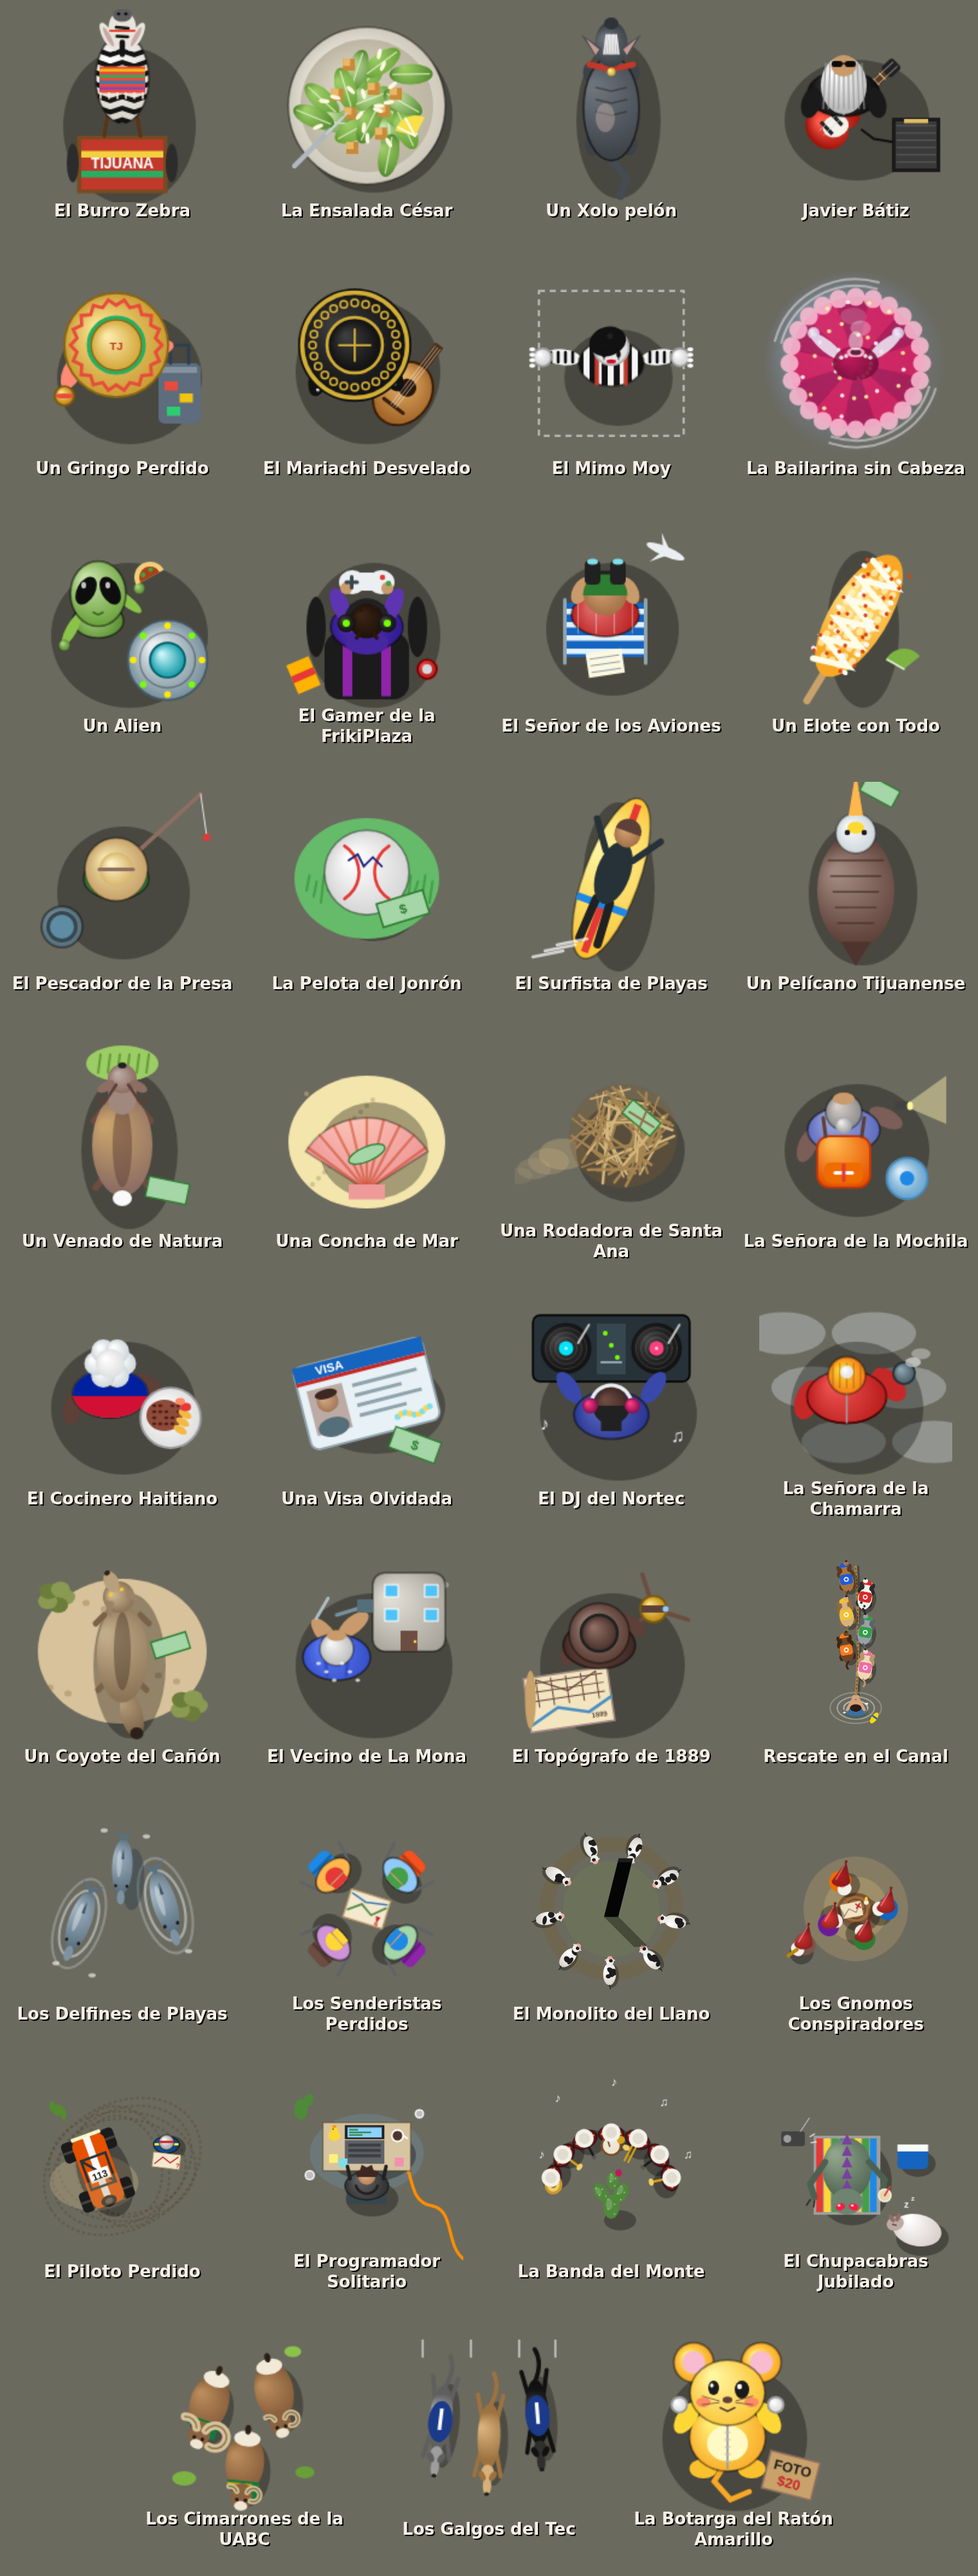
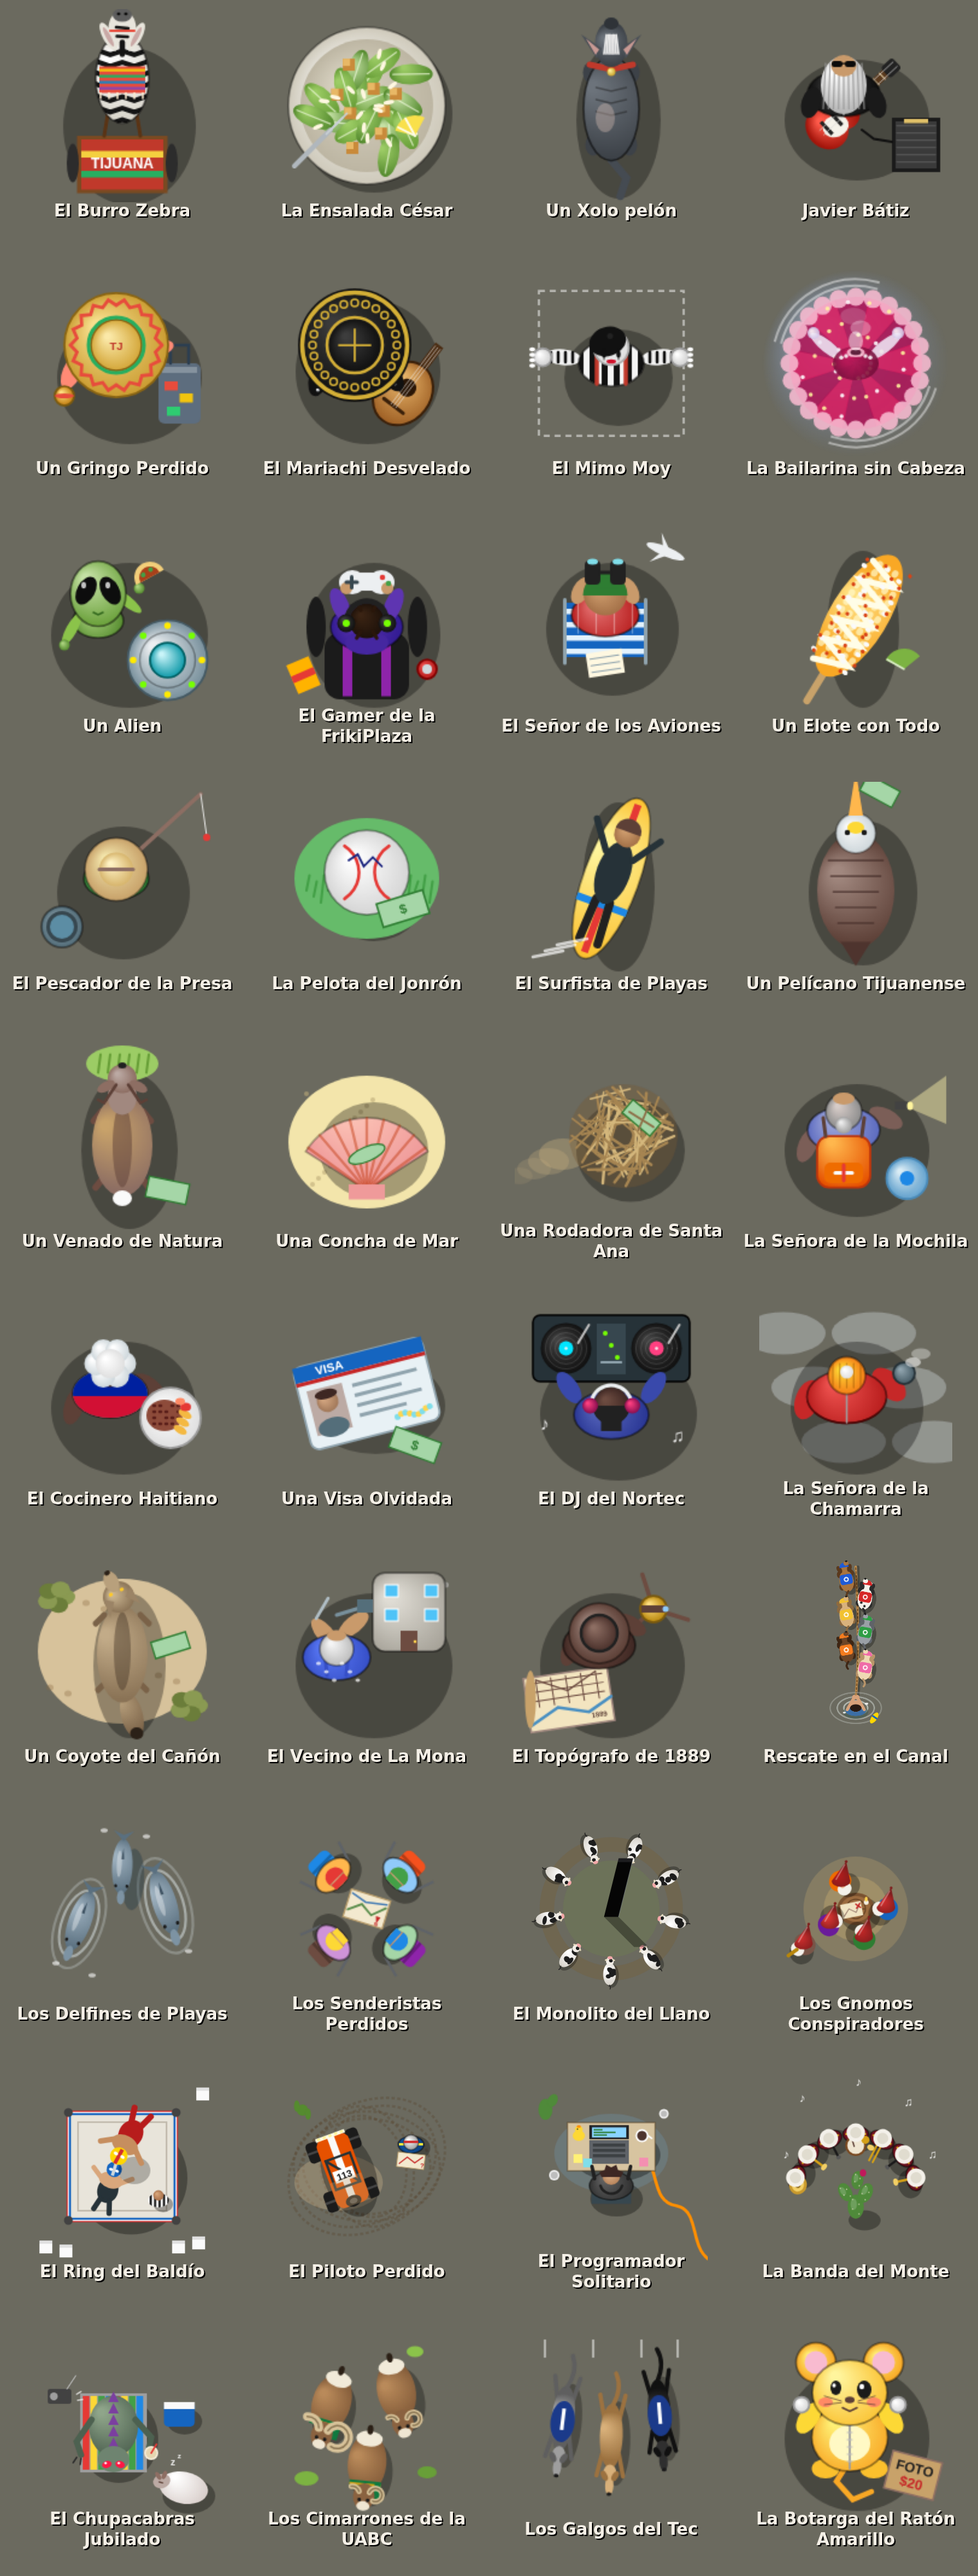
El ring del baldio: luchadores ensayando en un terreno vacio de Otay

Changed region(s): [[0.0309, 0.8125, 0.9586, 1.0]]

diff --git a/src/game.js b/src/game.js
@@ -225,6 +225,9 @@ const EGGS = [
   // en un terreno vacio de Natura (sin calles, casas ni agua cerca)
   { k: 'gnomos', name: 'Los Gnomos Conspiradores', at: [12382, 13312], pay: 300, fija: true, libre: true, rot: 0, quieto: true, r: 70,
     say: '(Cinco gnomos de jardín en bolita, alrededor de un tronquito con una vela y un plano marcado con una X, se quedan quietitos en cuanto te ven.) Uno te guiñó el ojo y te pasó un billete "para que no hayas visto nada".' },
+  // en un baldio de Otay (sin calles, casas ni agua cerca)
+  { k: 'lucha', name: 'El Ring del Baldío', at: [8982, 1752], pay: 300, fija: true, libre: true, rot: 0, quieto: true, r: 80,
+    say: '(En un baldío, dos luchadores enmascarados ensayan llaves en un ring hecho con cuerdas de tendedero, con su réferi y todo.) "¡A dos de tres caídas!" Te dieron una lana por ser el público.' },
   // en un llano del Cañón del Sainz (sin calles, casas ni agua cerca): las huellas dan vueltas en circulo
   { k: 'piloto', name: 'El Piloto Perdido', at: [8302, 11612], pay: 300, fija: true, libre: true, rot: 0, quieto: true, r: 80,
     say: '(Un piloto de la carrera de mil millas por la península, con casco y el traje lleno de polvo, ve un mapa que no le cuadra junto a su buggy.) "¿Esto es Ensenada?" Te dio una lana para que no le digas a nadie que se perdió.' },
@@ -3268,6 +3271,13 @@ const FRASES_FIJAS = {
   '¡Nomás era mi chancla, no hacía falta tanto!', '¡Gracias, perritos! ¿Aceptan croquetas o transferencia?',
   '¡Que alguien les avise que ya me puedo parar, el agua me llega a la cintura!',
   '¡Yo nomás venía a ver si estaba la marea alta!',
+  ],
+  lucha: [
+    '¡A dos de tres caídas, sin límite de tiempo!', 'Rudos contra técnicos, y el baldío de testigo.',
+    'Ensayamos para la función del sábado. Las cuerdas son del tendedero de mi mamá.', '¡Esta plancha va con dedicatoria para mi suegra!',
+    'El réferi es mi primo. Por eso siempre gano.', 'Mi máscara no se toca. Ni para lavarla.',
+    '¡Uno! ¡Dos! ...¡se levantó! ¡Qué barbaridad!', 'Si vas a grabar, de mi lado bueno. El izquierdo.',
+    'Debajo de la máscara hay otra máscara. Por si acaso.',
   ],
   piloto: [
     '¿Esto es Ensenada? ...¿Cómo que Tijuana?', 'Iba en primer lugar. Luego le hice caso al GPS.',
@@ -6751,7 +6761,38 @@ function makeEggs(scene) {
     // un sahuaro de los que ya conoce
     ell('#558b2f', 8, 10, 1.4, 1.4); ell('#558b2f', 6.6, 9, 0.7, 1.4); ell('#558b2f', 9.4, 11, 0.7, 1.4);
   };
-  const GRANDE = { monolito: 120, gnomos: 48, chupacabras: 44, banda: 48, programador: 44, piloto: 48 };
+  // el ring del baldio: lona, esquineros y cuerdas de colores, dos luchadores enmascarados (uno volando en plancha),
+  // el referi de rayas y unas sillas de plastico para el publico
+  draw.lucha = () => {
+    const c = 24, R = 13;
+    shadow(c + 1, c + 1.5, R + 1, R + 1);
+    x.fillStyle = '#e8e4da'; x.fillRect(c - R, c - R, 2 * R, 2 * R); // la lona
+    x.strokeStyle = 'rgba(120,110,90,0.35)'; x.lineWidth = 0.4; x.strokeRect(c - R + 2, c - R + 2, 2 * R - 4, 2 * R - 4);
+    [['#d32f2f', 0], ['#fafafa', 1.2], ['#1565c0', 2.4]].forEach(([col, o]) => { x.strokeStyle = col; x.lineWidth = 0.5; x.strokeRect(c - R - 0.6 + o * 0.25, c - R - 0.6 + o * 0.25, 2 * R + 1.2 - o * 0.5, 2 * R + 1.2 - o * 0.5); });
+    for (const [px, py] of [[-1, -1], [1, -1], [-1, 1], [1, 1]]) ell('#424242', c + px * (R + 0.4), c + py * (R + 0.4), 1.1, 1.1); // esquineros
+    // las sillas de plastico afuera
+    for (const [sx, sy] of [[5, 44], [10, 45], [38, 44], [43, 43], [44, 6]]) { x.fillStyle = '#fafafa'; x.fillRect(sx - 1.6, sy - 1.6, 3.2, 3.2); x.fillStyle = '#e0e0e0'; x.fillRect(sx - 1.6, sy - 1.6, 3.2, 0.8); }
+    // un luchador tirado en la lona (el que va a recibir) y el otro volando en plancha, con su sombra en la lona
+    const luchador = (lx, ly, a, piel, mascara, raya, malla, k) => {
+      x.save(); x.translate(lx, ly); x.rotate(a); x.scale(k, k);
+      ell(malla, 0, 2, 2.6, 3.2); // la malla
+      line(piel, 1.2, [[-2.6, -0.6], [-5, -2.4]]); line(piel, 1.2, [[2.6, -0.6], [5, -2.4]]); // los brazos abiertos
+      line(malla, 1.3, [[-1.2, 4.6], [-2, 7.4]]); line(malla, 1.3, [[1.2, 4.6], [2, 7.4]]); // las piernas
+      ell(piel, 0, -0.6, 3, 2); // el torso
+      ball(0, -3.4, 1.9, mascara, mascara); x.fillStyle = raya; x.fillRect(-0.4, -5.2, 0.8, 3.4); // la mascara con su raya
+      ell('#fff', -0.8, -3.2, 0.5, 0.35); ell('#fff', 0.8, -3.2, 0.5, 0.35);
+      x.restore();
+    };
+    luchador(c - 3, c + 4, 0.3, '#d9a77c', '#1565c0', '#cfd8dc', '#263238', 1);
+    ell('rgba(0,0,0,0.25)', c + 3, c + 1, 4, 3.4); // la sombra del que vuela
+    luchador(c + 1, c - 6, Math.PI + 0.5, '#c68e5f', '#ffd600', '#d32f2f', '#b71c1c', 1.15);
+    // el referi de rayas en la esquina
+    x.save(); x.translate(c + 9, c + 8); shadow(0, 0, 2.4, 2);
+    x.fillStyle = '#fafafa'; x.beginPath(); x.ellipse(0, 0.4, 2.6, 1.8, 0, 0, 7); x.fill();
+    x.save(); x.clip(); for (let i = -3; i < 3; i++) { x.fillStyle = '#212121'; x.fillRect(i * 1.1, -2, 0.55, 5); } x.restore();
+    ball(0, -0.8, 1.3, '#d9a77c', '#a8714a'); x.restore();
+  };
+  const GRANDE = { monolito: 120, gnomos: 48, chupacabras: 44, banda: 48, programador: 44, piloto: 48, lucha: 48 };
   for (const k in draw) {
     const n = GRANDE[k] || 32, t = scene.textures.createCanvas('egg_' + k, n * 5, n * 5);
     x = t.getContext(); x.save(); x.scale(5, 5); draw[k](x); x.restore(); t.refresh();

diff --git a/src/style.css b/src/style.css
@@ -83,6 +83,7 @@ html, body { margin: 0; height: 100%; overflow: hidden; background: var(--bg); c
 .bubble.cachorros { --bg: #e8f4ff; --bd: #1e5bd8; --fg: #0d2a5c; font-weight: 700; }
 .bubble.jugador { --bg: #e3f2fd; --bd: #ffd23f; --fg: #0d2a4a; font-weight: 700; }
 .bubble.repartidor { --bg: #fff3e0; --bd: #d84315; --fg: #3e1a00; font-weight: 700; }
+.bubble.lucha { --bg: #ffeb3b; --bd: #b71c1c; --fg: #1a0505; font-weight: 800; font-style: italic; }
 .bubble.piloto { --bg: #f4e6c8; --bd: #e65100; --fg: #3b2310; font-weight: 700; }
 .bubble.programador { --bg: #0d1117; --bd: #3fb950; --fg: #c9f7d0; font-family: ui-monospace, 'Droid Sans Mono', monospace; font-size: 12px; font-weight: 500; }
 .bubble.banda { --bg: #fff7e0; --bd: #9c1f2e; --fg: #4a0a12; font-weight: 700; }

diff --git a/README.md b/README.md
@@ -54,9 +54,9 @@ T trabajar de taxista · M mapa grande (toca para marcar destino). En celular ha
 - Escenas de tráfico 💥: los cruceros donde más se choca en Tijuana (estudio Misión Cero 2015-2023, SSPCM y Bomberos): Aldrete y Negrete, Parque Baja California y Pedregal, Lázaro Cárdenas y la Vía Rápida, la Glorieta Cuauhtémoc, la Vía Rápida Poniente, Las 5 y 10, el Bulevar 2000 y la Glorieta Santa Fe. Al llegar a uno, 7 de cada 10 veces hay un choque, y no siempre el mismo: de lado, alcance, carambola de tres, esquinazo (uno se pasó el alto) o una moto tirada. Los carros tienen las intermitentes prendidas, hay vidrios en el piso, al que se dio de frente le sale humo, y los conductores discuten mientras el de tránsito los calma (a veces la patrulla todavía no llega y te piden que seas su testigo). El tráfico le da la vuelta y los carros no se pueden robar. Están en `ESCENAS` de src/game.js (cada una se pega a su calle real).
 - Sobreruedas 🛍: los mercados sobre ruedas de Tijuana en la calle donde se ponen: Zona Norte (Miguel F. Martínez), la Villa (Antonio Villareal), Playas (Paseo del Pedregal), Otay Bellas Artes, Otay Módulos (Sor Juana Inés de la Cruz), El Florido (Calle del Saucillo), La Curva (Ruta Mariano Matamoros) y la Sánchez Taboada (Cruz del Sur). En la vida real cada uno es un día o dos a la semana; aquí están siempre. Tienen puestos con lonas de colores (ropa de paca, fruta, juguetes, fierro viejo, tenis, plantas, pan y chácharas), vallas donde cruzan otras calles y gente comprando que se para a ver los puestos y te habla. La calle está cerrada a los carros (el tráfico y la flecha le dan la vuelta y tu carro no pasa de la valla) pero se camina. Están en `SOBRERUEDAS` de src/game.js.
 - La fila de las garitas 🚗: en San Ysidro y en Otay siempre hay fila para cruzar a Estados Unidos. Los carriles que llegan a la línea están llenos de carros, defensa con defensa, que no se mueven (dejan libres los cruces con otras calles). No se pueden robar: nadie suelta su lugar en la fila. De vez en cuando alguien pita o te dice algo desde su carro. Entre los carros caminan vendedores (churros, agua, cobijas, figuras de yeso y dulces) que se paran en las ventanillas, pregonan y te ofrecen lo suyo si te les acercas (`VENDEDORES`). Las garitas están en `GARITAS` y las frases en `FRASES_FILA` de src/game.js.
-- Secretos 🥚: 39 personajes y cosas típicas de Tijuana escondidos cerca de los lugares (el burro cebra, la ensalada César, Javier Bátiz, el Mimo Moy, el señor de los aviones, el pescador de la Presa, el surfista de Playas, un venado en Natura...). Al encontrarlos sueltan una frase y una lana. Los que te faltan salen en el minimapa y en el mapa grande con un signo de interrogación tenue. En las orillas hay 9 más que cuentan la historia de la ciudad: hechos recientes (el temblor de 2010, la llegada de los haitianos en 2016, la línea cerrada en 2020 y 2021), nostalgia (el Nortec, La Mona, el plano de 1889) y consejos de aquí (la Santa Ana, el mayo gris, los arroyos cuando llueve). También hay referencias que se quedan siempre en su lugar aunque ya las hayas encontrado (`fija`): en el canal del río, por Plaza Río Tijuana, seis perritos con chalequito y casco de colores saca a un señor del agua con una soga (y el señor grita cosas cuando pasas), un piloto de la carrera del desierto perdido con su buggy en un llano del Cañón del Sainz (las huellas dan vueltas en círculo), un programador solitario con su laptop y su patito de hule en un terreno perdido de San Antonio del Mar (habla solo, y parece que es el de este juego), una banda completa tocándole a un nopal en el monte de Terrazas del Valle, el chupacabras jubilado tomando horchata en su silla de playa en el monte de La Presa, unos gnomos de jardín conspirando alrededor de una vela en un terreno vacío de Natura, nueve vacas en círculo mirando un monolito negro en un llano vacío del Cañón del Sainz, unos delfines en el mar de Playas, junto al muro, que se burlan de los humanos (cuentan desde la playa), unos senderistas perdidos con su mapa al revés a media ladera del Cerro Colorado, a unos pasos del mirador, y las mascotas de las escuelas afuera de su campus: unos borregos cimarrones con bufanda verde y dorada en la UABC y unos galgos con sudadera azul en el Tecnológico de Tijuana, que también te dicen algo al pasar. Están en `EGGS` de src/game.js.
+- Secretos 🥚: 40 personajes y cosas típicas de Tijuana escondidos cerca de los lugares (el burro cebra, la ensalada César, Javier Bátiz, el Mimo Moy, el señor de los aviones, el pescador de la Presa, el surfista de Playas, un venado en Natura...). Al encontrarlos sueltan una frase y una lana. Los que te faltan salen en el minimapa y en el mapa grande con un signo de interrogación tenue. En las orillas hay 9 más que cuentan la historia de la ciudad: hechos recientes (el temblor de 2010, la llegada de los haitianos en 2016, la línea cerrada en 2020 y 2021), nostalgia (el Nortec, La Mona, el plano de 1889) y consejos de aquí (la Santa Ana, el mayo gris, los arroyos cuando llueve). También hay referencias que se quedan siempre en su lugar aunque ya las hayas encontrado (`fija`): en el canal del río, por Plaza Río Tijuana, seis perritos con chalequito y casco de colores saca a un señor del agua con una soga (y el señor grita cosas cuando pasas), dos luchadores enmascarados ensayando en un ring con cuerdas de tendedero en un baldío de Otay, un piloto de la carrera del desierto perdido con su buggy en un llano del Cañón del Sainz (las huellas dan vueltas en círculo), un programador solitario con su laptop y su patito de hule en un terreno perdido de San Antonio del Mar (habla solo, y parece que es el de este juego), una banda completa tocándole a un nopal en el monte de Terrazas del Valle, el chupacabras jubilado tomando horchata en su silla de playa en el monte de La Presa, unos gnomos de jardín conspirando alrededor de una vela en un terreno vacío de Natura, nueve vacas en círculo mirando un monolito negro en un llano vacío del Cañón del Sainz, unos delfines en el mar de Playas, junto al muro, que se burlan de los humanos (cuentan desde la playa), unos senderistas perdidos con su mapa al revés a media ladera del Cerro Colorado, a unos pasos del mirador, y las mascotas de las escuelas afuera de su campus: unos borregos cimarrones con bufanda verde y dorada en la UABC y unos galgos con sudadera azul en el Tecnológico de Tijuana, que también te dicen algo al pasar. Están en `EGGS` de src/game.js.
 
-  ![Los 39 secretos](docs/easter-eggs.png)
+  ![Los 40 secretos](docs/easter-eggs.png)
 
 El progreso se guarda en el navegador (en la app, también en el almacén del teléfono), junto con dónde te quedaste: al volver a abrir apareces en el mismo lugar, y si ibas manejando, en el mismo carro.
 
